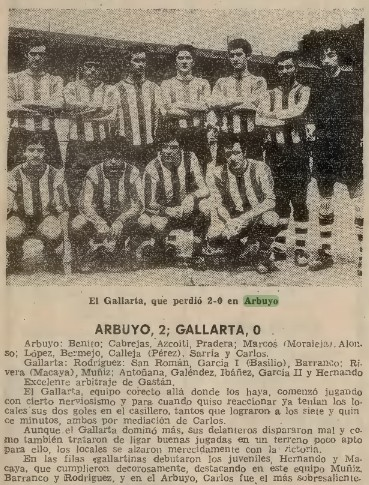
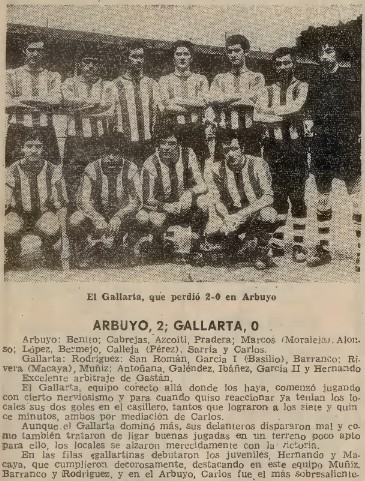
Descenso 1970-71: recorte del Gallarta sin subrayado
Claude-Session: https://claude.ai/code/session_012quR8DgZQjSbG8tdjsysLz

diff --git a/index.html b/index.html
@@ -1039,7 +1039,7 @@ a.sp .sp-n:after{content:" ↗";color:#d7262e}
      <p class="src">Fuente: diario Hierro, 19 de mayo de 1971.</p>
     </div>
    </article>
-   <figure class="foto"><img src="fotos/hierro-1971-05-19-arbuyo-gallarta.jpg" alt="Recorte del diario Hierro con la foto del Gallarta y la crónica del Arbuyo 2 - Gallarta 0" width="369" height="485" loading="lazy" style="max-width:369px"><figcaption>La crónica del Hierro, con la foto del Gallarta (19 de mayo de 1971).</figcaption></figure>
+   <figure class="foto"><img src="fotos/hierro-1971-05-19-arbuyo-gallarta.jpg?v=2" alt="Recorte del diario Hierro con la foto del Gallarta y la crónica del Arbuyo 2 - Gallarta 0" width="365" height="481" loading="lazy" style="max-width:365px"><figcaption>La crónica del Hierro, con la foto del Gallarta (19 de mayo de 1971).</figcaption></figure>
    <p>Una semana después, en la última jornada, el Arbuyo volvió a ganar, esta vez en el campo del Lujua (0-2). Cerró así la temporada con dos victorias seguidas.</p>
 
    <h4>Clasificación final</h4>
